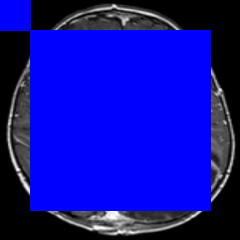
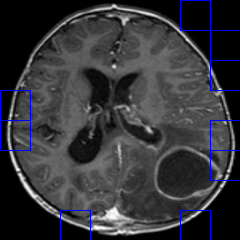
ok

diff --git a/computer_vision_model_detection.py b/computer_vision_model_detection.py
@@ -13,9 +13,11 @@ class computer_vision_localization_detection(object):
         self.image_size = 240
         self.number_classes = int(number_classes)
         self.split_size = 900
-        self.color = (255, 0, 0)
+        self.color1 = (255, 0, 0)
+        self.color2 = (255, 120, 0)
+        self.color3 = (255, 0, 120)
   
-        self.thickness = 2
+        self.thickness = 1
         self.thickness_fill = -1
         self.graph_path = "graph_charts/" + "detection_localization/"
 
@@ -71,14 +73,24 @@ class computer_vision_localization_detection(object):
         for image in os.listdir(self.image_path):
             image_resized = cv2.imread(os.path.join(self.image_path, image))
             image_resized = cv2.resize(image_resized,(self.image_size, self.image_size), interpolation = cv2.INTER_AREA)
+       
+
+        if self.number_classes == 2:
+            for r in range(0,image_resized.shape[0],int(math.sqrt(self.split_size))):
+                for c in range(0,image_resized.shape[1],int(math.sqrt(self.split_size))):
+                    start_point = (int(r), int(c))
+                    end_point = (int(r+(self.image_size/math.sqrt(len(self.image_file)))), int(c+(self.image_size/math.sqrt(len(self.image_file)))))
+                    if self.predicted_classes_array[int(r/(self.image_size/(math.sqrt(len(self.image_file)))))][int(c/(self.image_size/(math.sqrt(len(self.image_file)))))] == 1:
+                        cv2.rectangle(image_resized, start_point, end_point, self.color1, self.thickness)
         
-        for r in range(0,image_resized.shape[0],int(math.sqrt(self.split_size))):
-            for c in range(0,image_resized.shape[1],int(math.sqrt(self.split_size))):
-                start_point = (int(r), int(r))
-                end_point = ((int(self.image_size/math.sqrt(len(self.image_file)))),(int(self.image_size/math.sqrt(len(self.image_file)))))
-                print(int(r/(self.image_file/(math.sqrt(len(self.image_file))))))
-                # if self.predicted_classes_array[int(r/(self.image_file/(math.sqrt(len(self.image_file)))))][int(c/(self.image_file/(math.sqrt(len(self.image_file)))))] == 1:
-                    # cv2.rectangle(image_resized, start_point, end_point, self.color, self.thickness)
+        if self.number_classes == 4:
+             for r in range(0,image_resized.shape[0],int(math.sqrt(self.split_size))):
+                for c in range(0,image_resized.shape[1],int(math.sqrt(self.split_size))):
+                    start_point = (int(r), int(c))
+                    end_point = (int(r+(self.image_size/math.sqrt(len(self.image_file)))), int(c+(self.image_size/math.sqrt(len(self.image_file)))))
+                    if self.predicted_classes_array[int(r/(self.image_size/(math.sqrt(len(self.image_file)))))][int(c/(self.image_size/(math.sqrt(len(self.image_file)))))] == 1:
+                        cv2.rectangle(image_resized, start_point, end_point, self.color1, self.thickness)
+
 
         cv2.imwrite(self.graph_path + "model_segmenation_with_model_trained_prediction_" + str(self.save_model) + '.png', image_resized)
 
